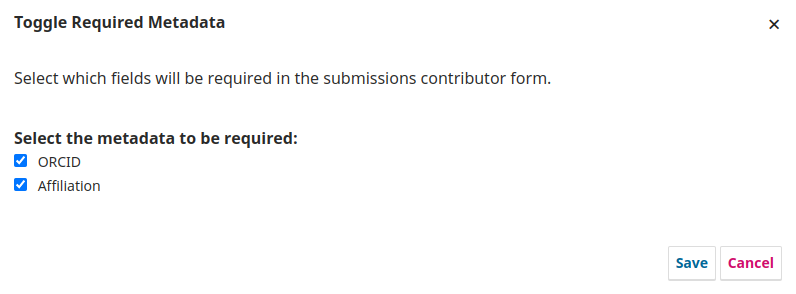
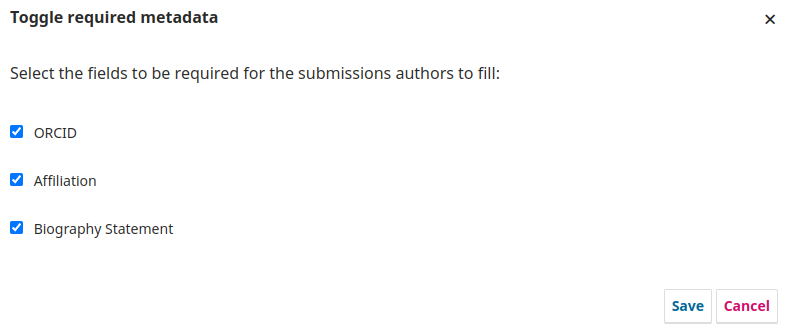
Readme update
Issue: documentacao-e-tarefas/desenvolvimento_e_infra#436

diff --git a/README.md b/README.md
@@ -1,6 +1,6 @@
 # Toggle Required Metadata Plugin 
 
-This plugin makes it possible to make the **Affiliation** and **ORCID** fields required for the submissions authors to fill in.
+This plugin makes it possible to make the **Affiliation**, **ORCID**  and  **Biography Statement** fields required for the submissions authors to fill in.
 
 These fields belong to the Contributor of the Submission.
 
